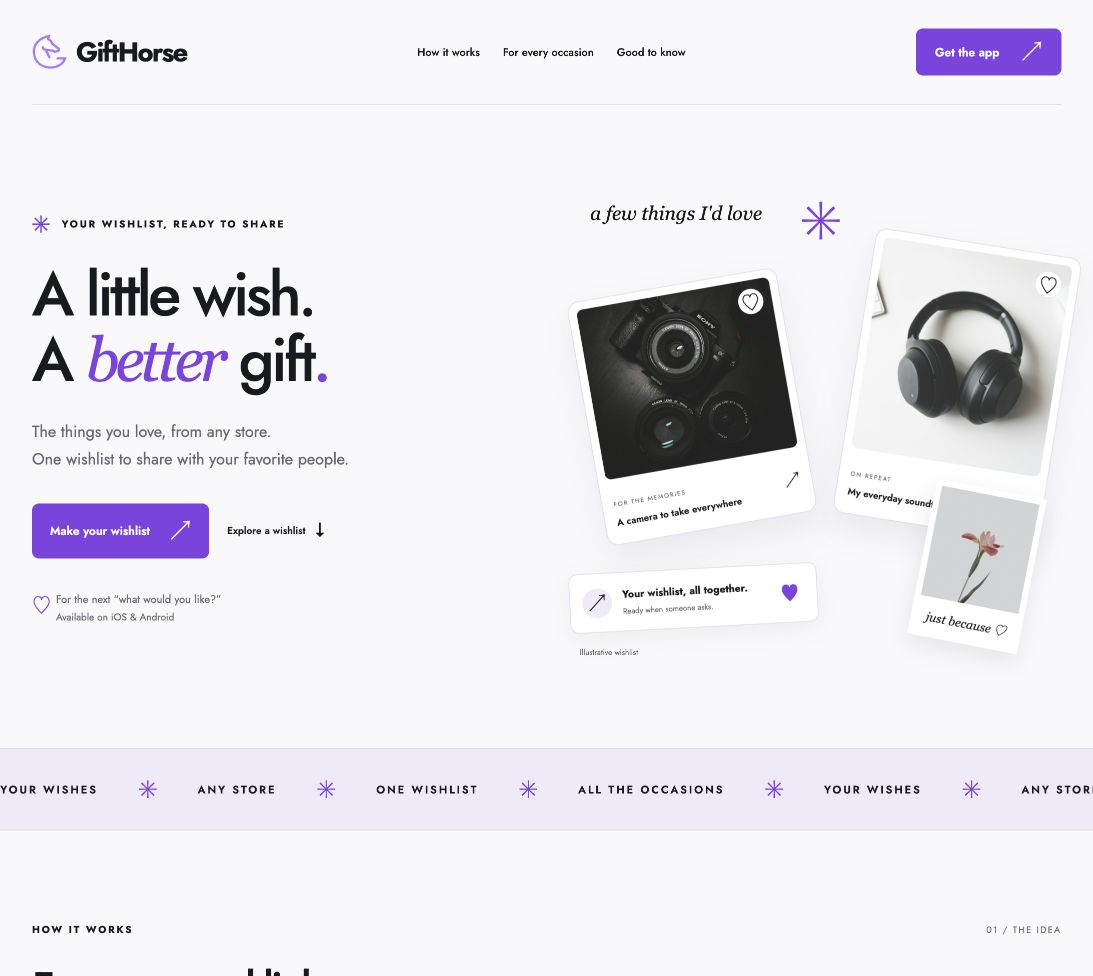
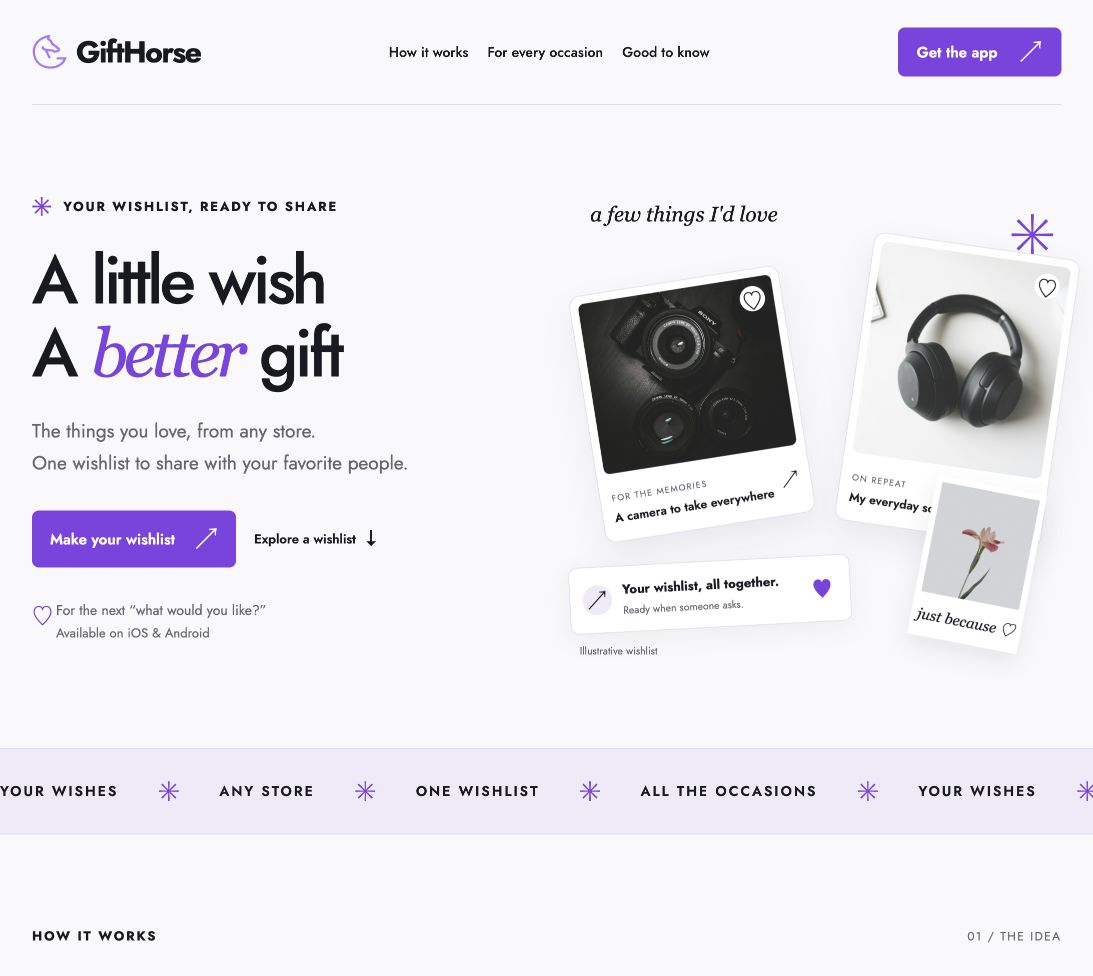
Update published review screenshots and verification notes [skip ci]

diff --git a/docs/qa.md b/docs/qa.md
@@ -45,3 +45,7 @@ GitHub Pages deployment confirmed at https://invincible.github.io/gifthorse-webs
 Checked 320, 360, 390, 768, 800, 801, 820, 1000, 1001, 1024, 1100, 1101, 1280 and 1440px browser viewports, including both sides of layout breakpoints. Every width reported scrollWidth equal to viewport width and no headings, body text, links, buttons or FAQ summaries outside the viewport. Inspected tablet hero, steps, example wishlist and expanded FAQ visually.
 
 Fixed a crowded tablet hero by moving the gift cards below the text at 801–1000px; moved the decorative mark away from the caption at intermediate laptop widths. Constrained illustrated browser/list content and message bubbles to their containers. Rechecked message bounds: no clipping at any audited width. Keyboard/browser interaction and browser viewport checks do not replace real-device Safari/Android testing.
+
+Published CSS and JavaScript now have content hashes in their filenames. This prevents previously visited GitHub Pages previews from retaining an older stylesheet after publication. The static build with hashed resources was checked locally, including native module imports and dynamic example images.
+
+Final Pages run 42830645587 succeeded. With a fresh browser fetch, live HTML references `style.ef3789151f28.css`; at 820px the hero has one 756px column and message bubbles use flex layout. Live occasion switching, fonts and image loading passed; no captured console warnings/errors. Mobile, tablet and desktop screenshots were refreshed from the published build. Temporary viewport, motion and cache overrides were restored.

diff --git a/README.md b/README.md
@@ -46,6 +46,6 @@ AI Gift Finder, the Amazon catalog, group collections, crypto, donations, price 
 
 ## Before publishing
 
-This review build intentionally sets `noindex,nofollow` and disallows crawling. Production publication requires an intentional update to the build's review guard and robots policy, a real canonical URL, absolute OG image metadata, sitemap, and verification of legal documents and release-dependent claims. No production domain or hosting was changed.
+This review build intentionally sets `noindex,nofollow` and disallows crawling. Production publication requires an intentional update to the build's review guard and robots policy, a real canonical URL, absolute OG image metadata, sitemap, and verification of legal documents and release-dependent claims. The existing production domain and its hosting were not changed.
 
 Analytics dispatches `gifthorse:analytics` custom events without transmitting data. No Firebase credentials, property IDs, or analytics SDK were copied from the app. Connect an approved web analytics adapter before claiming measured conversions. App installs must be measured downstream, not inferred from store clicks.
